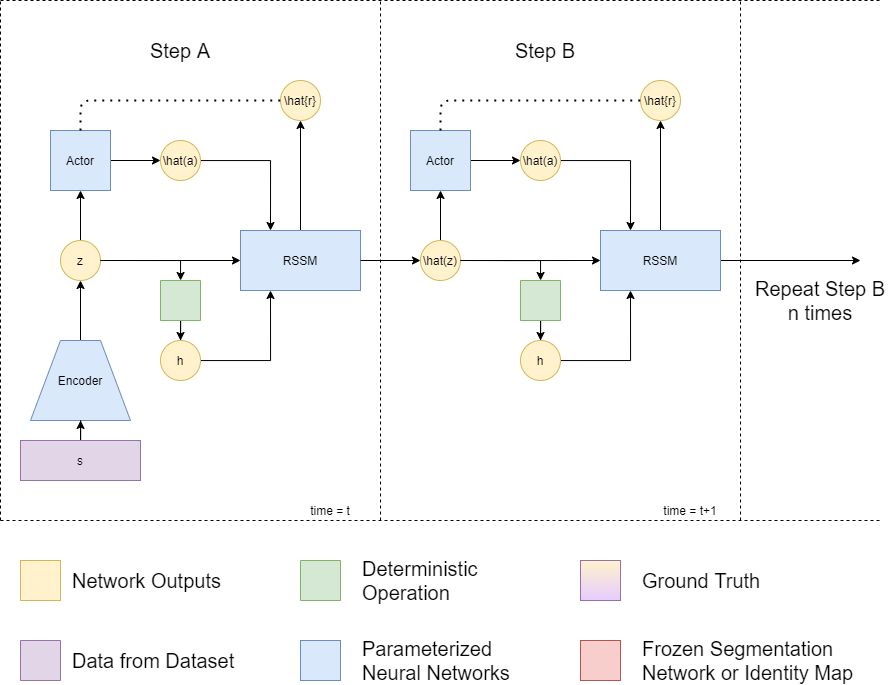
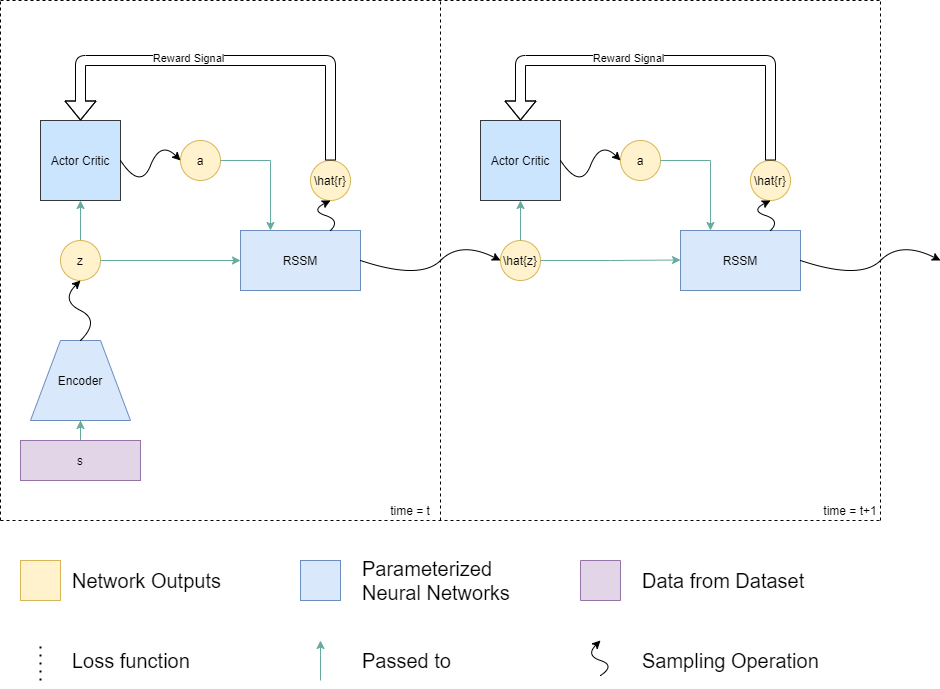
Fixed some nomenclature stuff

diff --git a/index.md b/index.md
@@ -147,23 +147,28 @@ This presents several challenges in design:
 
 Admittedly, while an architecture where everything is deterministic and has an explicit formulation is possible, it is not entirely scalable from one scenario to the next. In addition, the phd title has 'AI-enabled drones' in it, may as well take that notion to the extreme...
 
-The core idea of the state encoder is to allow the drone to represent the system state, $s \in S$ in the form of a hidden latent variable, $z \in Z \sim p_{e, \theta}(z|s)$. Hidden here implies that the meaning of this variable is non-human-interpretable. Note that this is a stochastic distribution. We denote with the vector $\theta$ distributions that are parameterized by a neural network.
+The core idea of the state encoder is to allow the drone to represent the system state, $s \in S$ in the form of a latent variable, $z \sim p_{e, \theta}(\bullet|s)$. Latent here implies that the meaning of this variable is non-human-interpretable. Note that this is a stochastic distribution. The subscript $e$ indicates that this distribution is sampled from an encoder network, while the subscript $\theta$ denotes distributions that are parameterized by a neural network.
 
 The purpose of this is to reduce the very high-dimensional state information $s \in S$ into a much lower dimensional latent space $z \in Z$, where $\dim(s) \approx 10e6$ and $\dim(z) \approx 10e2$. This is necessary because current reinforcement learning algorithms do not function well with very high dimensional data, so this reduction of data dimension is necessary. In the [future](#putting-everything-together), we also see that this allows a dramatic speed-up in training by allowing the neural network to perform training in many more batches than when training with raw states $s$.
 
-To achieve this meaningful encoding of the system state, a modified [variational auto encoder](https://arxiv.org/abs/1312.6114) can be used. The paper in the link is rather dated, but should give a good representation of what is planned to be achieved. In short, we represent the latent variable according to $z \in Z \sim p_{e, \theta}(z|s)$, and then have another distribution reproduce $\hat{s} \in \hat{S} \sim p_{d, \theta}(\hat{s}|z)$. We then regress $\hat{s}$ onto $s$ through standard back propogation. To enforce closeness in the space of $Z$ (to prevent overfitting), an additional distribution loss of $L_{KL} = KL(p(Z)||p(\bar{Z}))$ can be added, where $\bar{Z}$ is some prior, predefined distribution, usually chosen as a Gaussian ball with unit variance. The $KL$ term simply denotes the Kullback-Leibler divergence, which is a measure of distances between distributions. The formulation classically used is:
+To achieve this meaningful encoding of the system state, a modified [variational auto encoder](https://arxiv.org/abs/1312.6114) can be used. The paper in the link is rather dated, but should give a good representation of what is planned to be achieved. In short, we represent the latent variable according to $z \sim p_{e, \theta}(\bullet|s)$, and then have another distribution reproduce $\hat{s} \sim p_{d, \theta}(\hat{s}|z)$. We then regress $\hat{s}$ onto $s$ through standard back propogation. To enforce closeness in the space of $Z$ (to prevent overfitting), a modified evidence lower bound (ELBO) objective with an additional distribution loss of $L_{KL} = KL(p(Z)||p(\bar{Z}))$ can be added, where $\bar{Z}$ is some prior, predefined distribution, usually chosen as a Gaussian ball with unit variance. The $KL$ term simply denotes the Kullback-Leibler divergence, which is a measure of distances between distributions. The formulation classically used is:
 
 $$
   L_{KL} = KL(p(Z)||p(\bar{Z})) \\
   L_{KL} = \mathbb{E}_Z [log(\frac{p_{e, \theta}(z|s)}{p(\bar{z})})] \\
-  L_{KL} = \frac{1}{T}\sum_i^T[log(p_{e, \theta}(z_i|s)) - log(p(\bar{z}_i))]
+  L_{KL} = \frac{1}{N}\sum_i^N[log(p_{e, \theta}(z_i|s)) - log(p(\bar{z}_i))]
 $$
 
-> Note that the distribution of $z$ is stochastic, that is, the neural network outputs a distribution, and then the latent variable $z$ is sampled from this distribution via the [reparameterization trick](https://arxiv.org/abs/1312.6114). It is therefore convenient to represent the distributions as simple Gaussians.
+> Note that the distribution of $z$ is stochastic, that is, the neural network outputs a distribution, and then the latent variable $z$ is sampled from this distribution via the [reparameterization trick](https://arxiv.org/abs/1312.6114) or [straight through gradient estimators](https://arxiv.org/abs/1308.3432) to maintain gradient information through a stochastic step. It is convenient to represent the distributions as simple Gaussians.
 
-As can be seen, simply summing all the data at a sufficient scale is enough to enforce this constraint. Unfortunately, doing this can be disadvantageous by forcing the network to place all the state representations very closely within the latent space, potentially losing out on representational capacity. To circumvent this, I propose that we simply replace $\bar{z} = z_{i-1}$ (some notation change in the expectation is needed, but this is fairly trivial to do and the end result is the same). The intuition is that this enforces adjacent states $s$ (which are by definition very close to each other being only one time step away from each other) to be represented closely in latent space, but states that are very far away (for example $s_3$ and $s_{100}$) can be placed very far apart in latent space. By intuition, in the limit, all the latent space variables will eventually be a coherent mass, but this still requires mathematical proof.
+As can be seen, simply summing all the data at a sufficient scale is enough to enforce this constraint. Unfortunately, doing this can be disadvantageous by forcing the network to place all the state representations very closely within the latent space, potentially losing out on representational capacity. To circumvent this, I propose that we simply replace $\bar{z} = z_{i-1}$ (some notation change in the expectation is needed, but this is fairly trivial to do and the end result is the same). The intuition is that this enforces adjacent states $s$ (which are by definition very close to each other being only one time step away from each other) to be represented closely in latent space, but states that are very far away (for example $s_3$ and $s_{100}$) can be placed very far apart in latent space. By intuition, in the limit, all the latent space variables will eventually be a coherent mass.
+
+> It has been discovered that a spin on the above idea has been used in [Position Velocity Encoders](https://arxiv.org/pdf/1705.09805.pdf). It's not exactly the same thing, but the intuition is similar.
 
 > Optionally, to enforce a _meaningful_ representation of the state $s$ in $z$, we can train the SE to output segmentation masks generated by an off-the-shelf semantic segmentation model. This way, things like tree colour, sky colour, etc, are not represented in the latent variable $z$.
+
+Helpful papers:
+- [Posterior Collapse in VAEs](http://proceedings.mlr.press/v119/dai20c/dai20c.pdf)
 
 ****
 
@@ -201,7 +206,7 @@ Online reinforcement learning is not data efficient. Many attributes cause this,
 
 > We denote the latent state space variable here as $z \in Z$, but note that there are two possible formulations for this latent space variable. The first is as described in the [state encoder](#state-encoder), but an alternate, more sensible approach, is to have $s \in S$ be solely derived from $X$, and then concatenate $q \in Q$ into $z$. That way, the state encoder is only used to encode the perceptual camera information, and the sensor measurements taken by the IMU (or optionally filtered and estimated position, velocity, etc) be kept as a separate variable, simply concatenated to the latent variable. For brevity, I will just refer to this variable as a latent state variable $z \in Z$.
 
-The RSSM's main goal is to predict the next state and reward given the current state and action pair, where the states are represented as latent state variables. If we assume that the whole process is first-order Markovian (as in a fully observable MDP), then it is sufficient for the neural networok to be a normal feedforward network. However, most of the time, such complex systems are partially observable, thus the Markovian nature is very difficult to be enforced. For this reason, it is likely that a recurrent model should be used for the RSSM instead, in the form of a GRU, LSTM, simple RNN, or optionally a Transformer. Thus, we introduce a recurrent variable here as $h$. The RSSM is then described by $(z_i, r_i) \sim f_{\theta}(z_{i-1}, a_{i-1}, h_{i-1})$. Note that this process is deterministic. The recurrent varialble can then be a distribution of several things; $h_i \sim  g(\bullet | z_i, h_{i-1}, ...)$, note that this is not a neural network process, but a fixed stochastic operation.
+The RSSM's main goal is to predict the next state and reward given the current state and action pair, where the states are represented as latent state variables. If we assume that the whole process is first-order Markovian (as in a fully observable MDP), then it is sufficient for the neural networok to be a normal feedforward network. However, most of the time, such complex systems are partially observable, thus the Markovian nature is very difficult to be enforced. For this reason, it is likely that a recurrent model should be used for the RSSM instead, in the form of a GRU, LSTM, simple RNN, or optionally a Transformer. Thus, we introduce a recurrent variable here as $h$. The RSSM is then described by $(z_i, r_i) \sim f_{\theta}(z_{i-1}, a_{i-1}, h_{i-1})$. Note that this process is also stochastic. The recurrent variable can then be a distribution of several things; $h_i \sim  g(\bullet | z_i, h_{i-1}, ...)$.
 
 ****
 ****
@@ -231,7 +236,7 @@ In short, the actor critic model requires an action value distribution approxima
 
 $$
   \hat{a}_i \sim \pi_{a, \theta}(\bullet | z_i) \\
-  \hat{V}_i = \pi_{v, \theta}(z_i)
+  \hat{V}_i \sim \pi_{v, \theta}(\bullet | z_i, a_i)
 $$
 
 
@@ -244,9 +249,9 @@ Thus far, we have:
   - $z \sim p_{e, \theta} (\bullet | s)$
   - $\hat{s} \sim p_{d, \theta} (\bullet | z)$
 - [The Recurrent State Space Model](#recurrent-state-space-model-rssm)
-  -  $(z_i, r_i) = f_{\theta}(z_{i-1}, a_{i-1}, h_{i-1})$
+  -  $(z_i, r_i) \sim f_{\theta}(\bullet | z_{i-1}, a_{i-1}, h_{i-1})$
 -  [Actor Critic Model](#reinforcement-learning-model-actor-critic--ac)
-   - $\hat{V}_i = \pi_{v, \theta}(z_i)$
+   - $\hat{V}_i \sim \pi_{v, \theta}(\bullet | z_i, a_i)$
    - $\hat{a}_i \sim \pi_{a, \theta}(\bullet | z_i)$
 
 To preface, the base idea is to train the AC model on the imagined latent states generated by the RSSM, rolled out for $n$ steps into the future at a time.
@@ -266,6 +271,8 @@ In this stage of learning, we first train the SE using the dataset. Training to 
 
 ![RSSM SE training](RSSM%20SE%20training.png)
 
+> Note the sampling operations in the figure. In these instances, the networks outputs a parameterized distribution (most likely a Gaussian), from which the variable is sampled from before being passed on. In reality, there will likely be an ensemble of RSSMs, each with different initializations. This allows the AC to perform reinforcement learning on an ensemble of trajectories, promoting robustness.
+
 ****
 
 ### 6.2. Agent Learning
@@ -284,7 +291,7 @@ Once the world model is suitably learned, it can then be used to train the reinf
 ### 6.3. Deployment
 Finally, in deployment, we discard everything but the most essential. Effectively, we replicate the operation shown in the prior image, but this time, actions are directly taken onto the world state instead. The RSSM and decoder are not used.
 
-Ideally, the system should be trained in a recurring fashion, that is, after training on the initial dataset, the system should be allowed to interact with the environment on its own and collect additional data to be added to the dataset, and then retrained on this additional data. This should be done for several episodes until an optimum level of performance is achieved.
+Ideally, the system should be trained in a recurring fashion, that is, after training on the initial dataset, the system should be allowed to interact with the environment on its own and collect additional data to be added to the dataset, and then retrained on this additional data. This should be done for several episodes until an optimum level of performance is achieved. This form of learning is known as synchronous learning as in the case of A2C. A more powerful method of learning would entail learning in an [asynchronous fashion](https://arxiv.org/pdf/1602.01783.pdf). In this case, the network is deployed into the environment and trajectories are collected. This data is used to train the SE and RSSM, which is in turn used to train the actor critic, which is then used to collect more trajectories. This happens episodically with the actor critic continuously using the latest version of itself.
 
 ****
 
